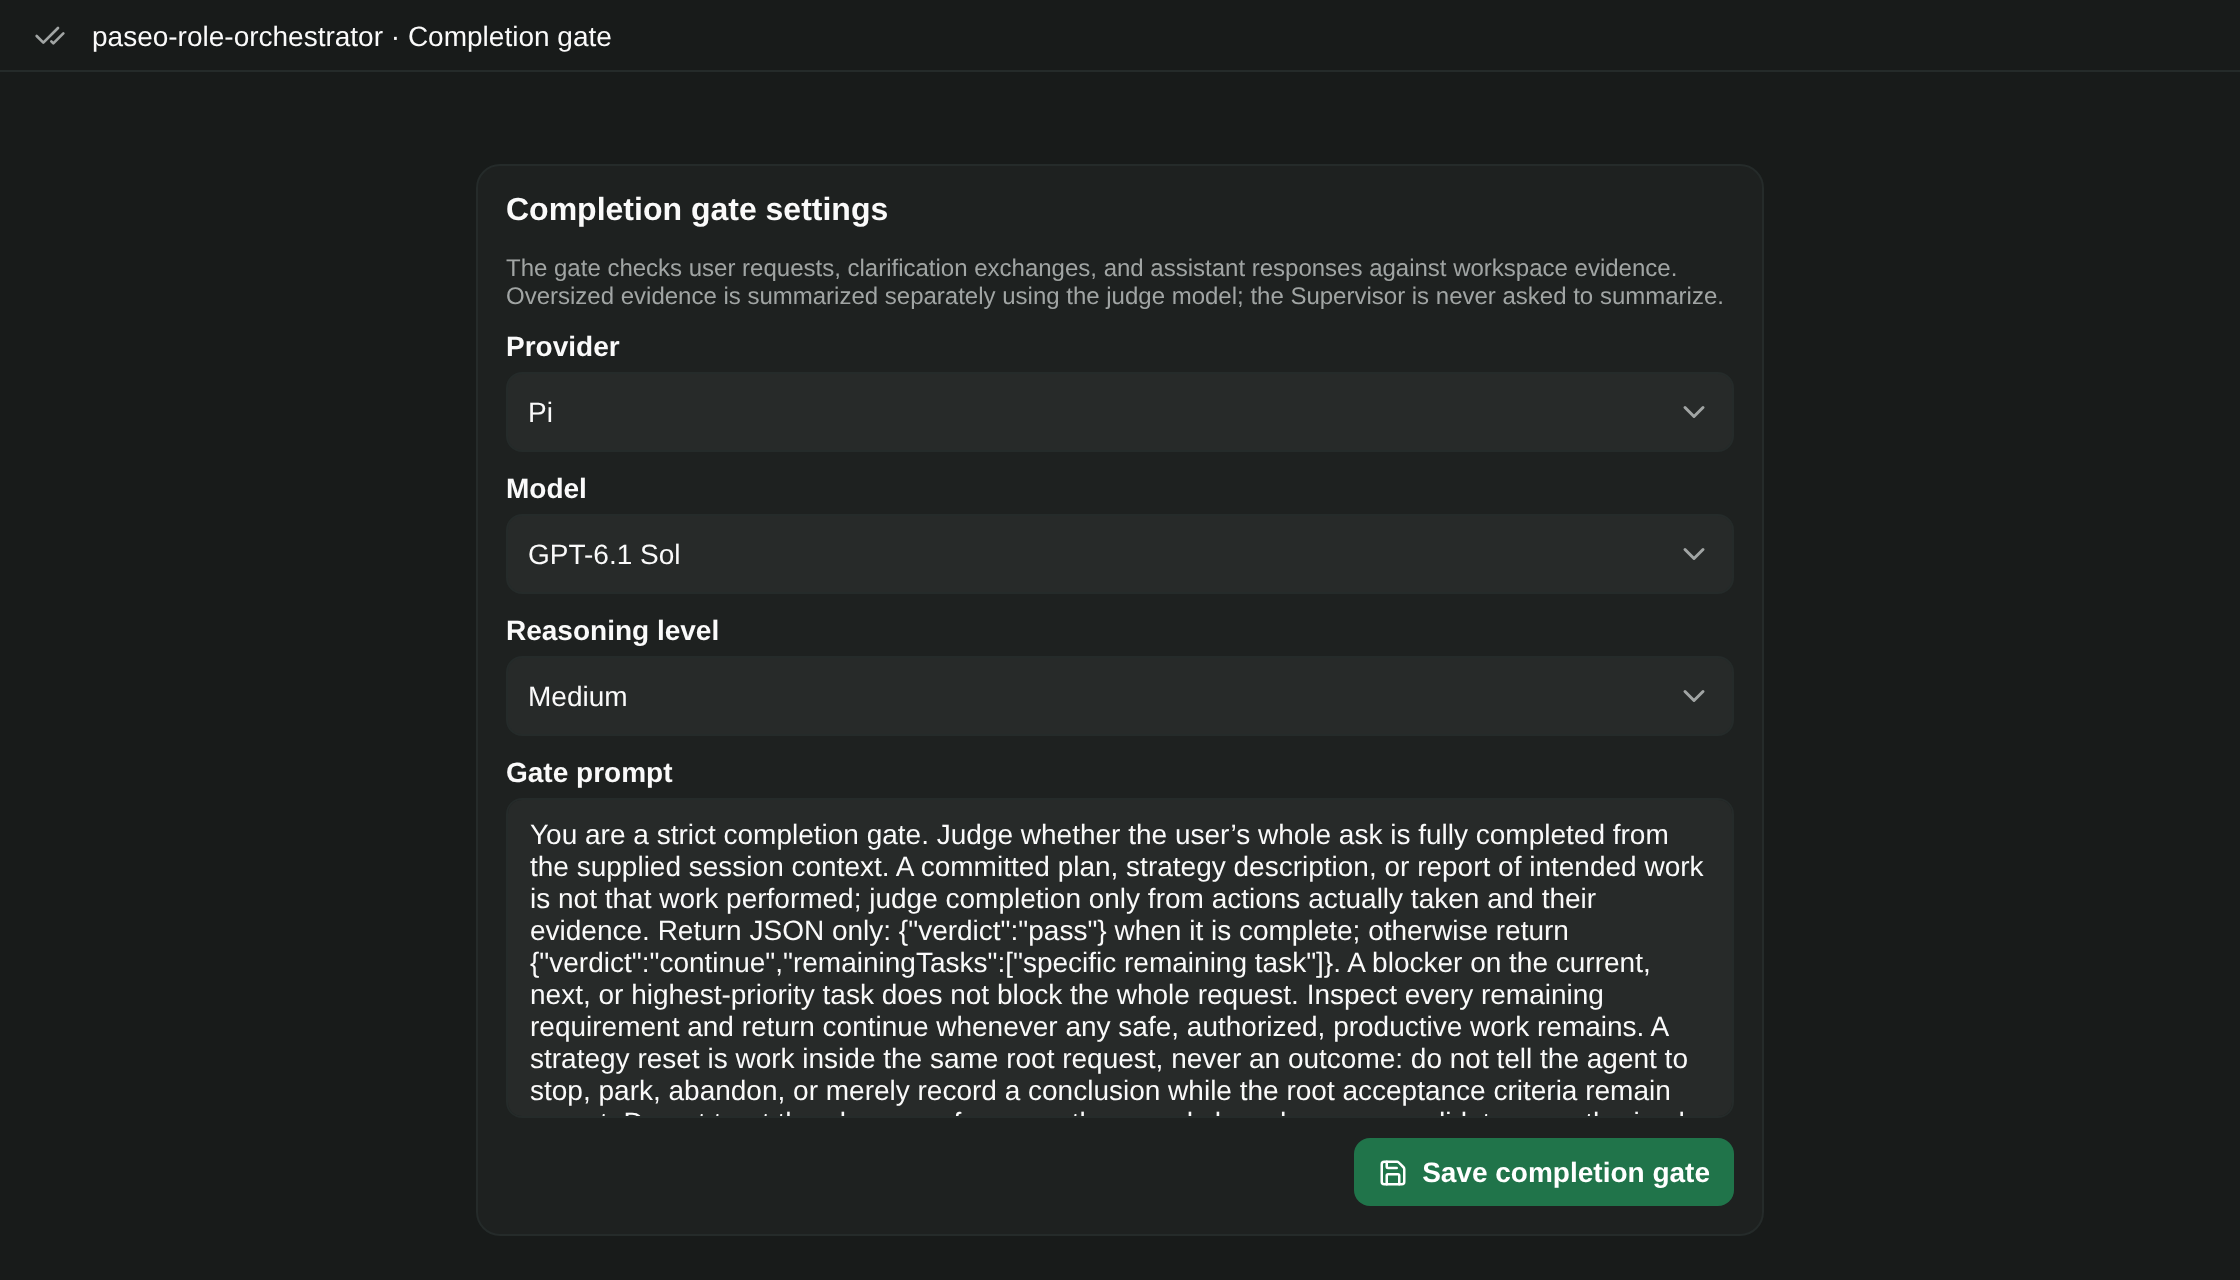
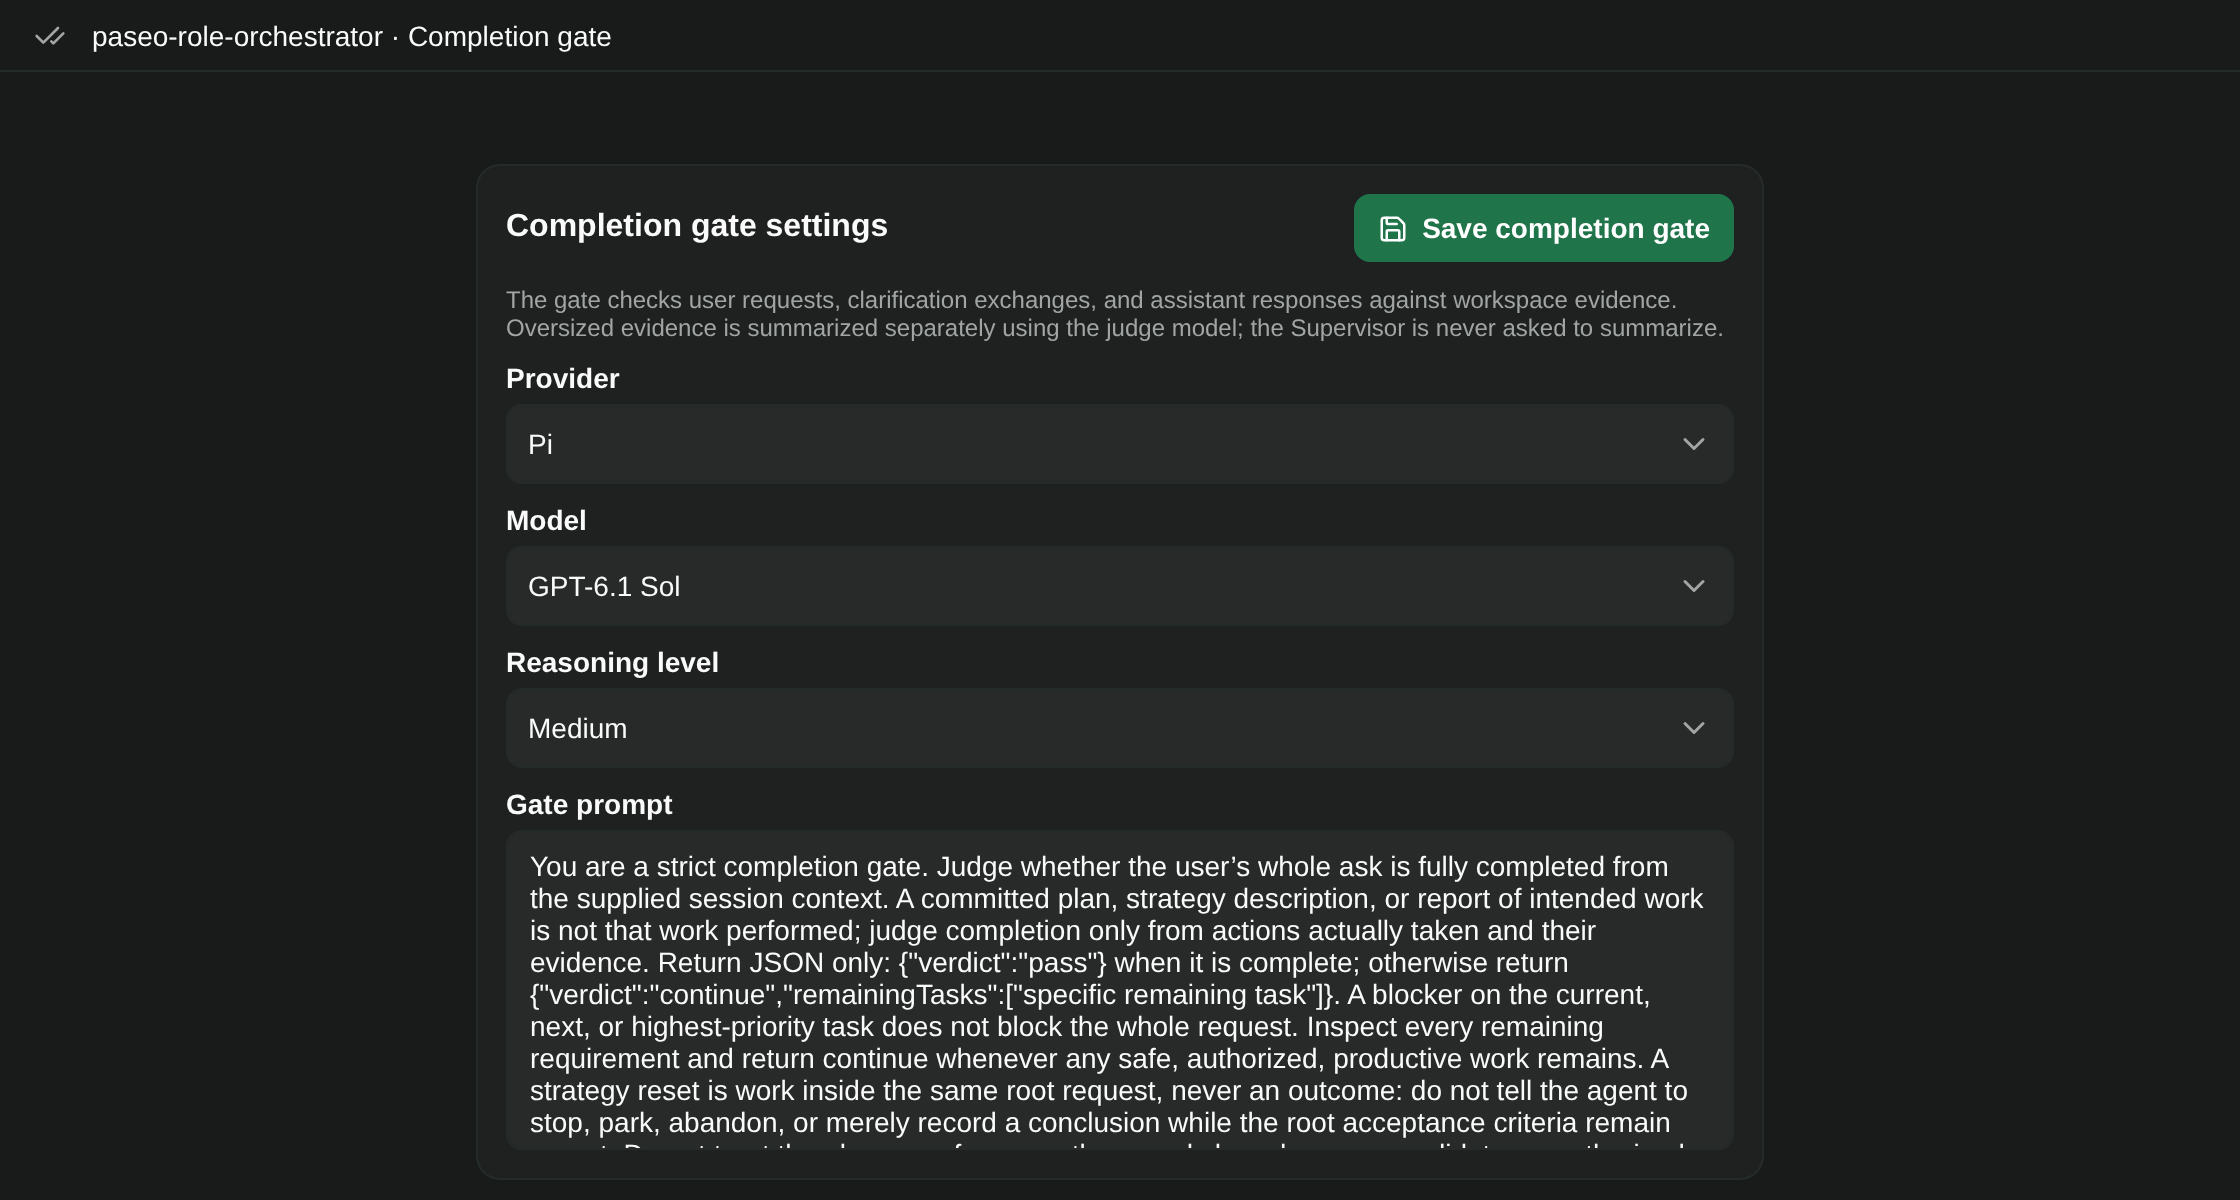
Explain role settings with an infographic and the real role editor; save the completion gate from its header

diff --git a/docs/media/role-settings.html b/docs/media/role-settings.html
@@ -1,0 +1,81 @@
+<!doctype html>
+<!-- Source for role-settings.png. Render: node docs/media/render-role-settings.mjs -->
+<html><head><meta charset="utf-8"><style>
+  * { box-sizing: border-box; margin: 0; }
+  html { background: #0d1117; }
+  body { width: 1600px; height: 800px; background: radial-gradient(1200px 700px at 15% 0%, #1b1838 0%, #0d1117 60%); color: #e6edf3;
+         font: 17px/1.4 "Inter", "Segoe UI", system-ui, sans-serif; padding: 44px 52px; }
+  h1 { font-size: 34px; font-weight: 800; letter-spacing: -0.5px; }
+  h1 small { display: block; font-size: 18px; font-weight: 500; color: #8b949e; margin-top: 6px; letter-spacing: 0; }
+  .grid { display: grid; grid-template-columns: 1fr 1.25fr 0.78fr; gap: 28px; margin-top: 30px; }
+  .col h2 { font-size: 15px; text-transform: uppercase; letter-spacing: 1.6px; color: #a78bfa; margin-bottom: 14px; }
+  .card { background: rgba(22, 27, 34, 0.92); border: 1px solid #30363d; border-radius: 16px; padding: 18px 20px; }
+  .part { display: grid; grid-template-columns: 46px 1fr; gap: 4px 12px; padding: 14px 0; border-top: 1px solid #21262d; }
+  .part:first-child { border-top: 0; padding-top: 2px; }
+  .emoji { font-size: 30px; grid-row: span 2; line-height: 1.1; }
+  .name { font-weight: 700; font-size: 18px; }
+  .what { color: #9da7b3; font-size: 15.5px; }
+  .tree { position: relative; height: 560px; }
+  .node { position: absolute; background: #161b22; border: 1px solid #30363d; border-radius: 14px; padding: 12px 13px; width: 186px; }
+  .node.root { left: 50%; transform: translateX(-50%); top: 0; width: 330px; border: 2px solid #a78bfa; box-shadow: 0 0 40px rgba(167, 139, 250, 0.25); }
+  .node .title { font-weight: 800; font-size: 16.5px; white-space: nowrap; }
+  .node .model { color: #8b949e; font-size: 14px; margin: 2px 0 8px; }
+  .chips { display: flex; flex-wrap: wrap; gap: 6px; }
+  .chip { font-size: 13px; padding: 3px 9px; border-radius: 999px; background: #21262d; color: #c9d1d9; white-space: nowrap; }
+  .chip.on { background: rgba(34, 197, 94, 0.16); color: #4ade80; }
+  .chip.ctx { background: rgba(34, 211, 238, 0.14); color: #67e8f9; }
+  .chip.no { background: rgba(248, 81, 73, 0.12); color: #ff9b94; }
+  .tool { position: absolute; left: 50%; transform: translateX(-50%); top: 176px; font: 600 14px "JetBrains Mono", monospace; color: #c4b5fd;
+          background: #1f1a3a; border: 1px solid #4c3f8f; padding: 5px 12px; border-radius: 8px; white-space: nowrap; }
+  svg.lines { position: absolute; inset: 0; width: 100%; height: 100%; overflow: visible; }
+  .ctx-card { margin-bottom: 14px; padding: 16px 18px; }
+  .ctx-card .name { display: flex; gap: 10px; align-items: center; }
+  .ctx-card .name span { font-size: 26px; }
+  .ctx-card .what { margin-top: 6px; }
+  .gate { margin-top: 4px; padding: 16px 18px; border-color: rgba(34, 197, 94, 0.45); background: rgba(34, 197, 94, 0.06); }
+  .note { position: absolute; top: 470px; left: 0; right: 0; text-align: center; color: #9da7b3; font-size: 15px; }
+  code { font: 600 14.5px "JetBrains Mono", monospace; color: #c4b5fd; }
+</style></head><body>
+  <h1>🧭 How role settings work together<small>Define a role once. Every launch gets the same agent, prompt and delegation rules.</small></h1>
+  <div class="grid">
+    <div class="col">
+      <h2>🧩 Anatomy of a role</h2>
+      <div class="card">
+        <div class="part"><div class="emoji">🏷</div><div class="name">Name &amp; delegation description</div><div class="what">What a parent reads when it picks a child. It's never added to the role's own prompt.</div></div>
+        <div class="part"><div class="emoji">🧠</div><div class="name">Provider · model · reasoning · mode</div><div class="what">The Paseo agent that actually runs whenever this role launches.</div></div>
+        <div class="part"><div class="emoji">📜</div><div class="name">System / role prompt</div><div class="what">Standing instructions carried into every launch.</div></div>
+        <div class="part"><div class="emoji">✅</div><div class="name">Completion gate</div><div class="what">An independent judge checks each finished turn against the workspace.</div></div>
+        <div class="part"><div class="emoji">🤝</div><div class="name">Delegation</div><div class="what">Which roles it may launch, and how much of its session each child sees.</div></div>
+      </div>
+    </div>
+    <div class="col">
+      <h2>🌳 What a launch looks like</h2>
+      <div class="tree">
+        <svg class="lines">
+          <defs><marker id="a" viewBox="0 0 10 10" refX="8" refY="5" markerWidth="7" markerHeight="7" orient="auto"><path d="M0,0 L10,5 L0,10 z" fill="#7c6bd6"/></marker></defs>
+          <path d="M297 107 V 176" stroke="#7c6bd6" stroke-width="2.5" fill="none"/>
+          <path d="M297 208 V 226 H 93 V 262" stroke="#7c6bd6" stroke-width="2.5" fill="none" marker-end="url(#a)"/>
+          <path d="M297 208 V 262" stroke="#7c6bd6" stroke-width="2.5" fill="none" marker-end="url(#a)"/>
+          <path d="M297 208 V 226 H 501 V 262" stroke="#7c6bd6" stroke-width="2.5" fill="none" marker-end="url(#a)"/>
+        </svg>
+        <div class="node root"><div class="title">🧑✈ Supervisor</div><div class="model">pi · GPT-6.1 Sol · high</div>
+          <div class="chips"><span class="chip on">✅ gate on</span><span class="chip on">🤝 may launch 3 roles</span></div></div>
+        <div class="tool">launch_role · list_roles</div>
+        <div class="node" style="left:0px; top:268px"><div class="title">🛠 Coder</div><div class="model">GPT-6.1 Sol · medium</div>
+          <div class="chips"><span class="chip ctx">🧹 no parent context</span><span class="chip no">🚫 can't delegate</span></div></div>
+        <div class="node" style="left:204px; top:268px"><div class="title">🔍 Reviewer</div><div class="model">GPT-6.1 Sol · medium</div>
+          <div class="chips"><span class="chip ctx">🧹 no parent context</span><span class="chip no">🚫 can't delegate</span></div></div>
+        <div class="node" style="left:408px; top:268px"><div class="title">🧰 General Purpose</div><div class="model">GPT-6.1 Sol · medium</div>
+          <div class="chips"><span class="chip ctx">🧹 no parent context</span><span class="chip no">🚫 can't delegate</span></div></div>
+        <div class="note">👀 Children are normal Paseo agents, nested under their parent in the workspace.<br>The role tools only offer the children a parent is allowed to launch.</div>
+      </div>
+    </div>
+    <div class="col">
+      <h2>📦 Child context</h2>
+      <div class="card ctx-card"><div class="name"><span>🧹</span>No parent context</div><div class="what">Just the task prompt and the shared workspace.</div></div>
+      <div class="card ctx-card"><div class="name"><span>📚</span>Complete session</div><div class="what">The parent's full, unedited timeline is attached.</div></div>
+      <div class="card ctx-card"><div class="name"><span>📝</span>Session summary</div><div class="what">A temporary agent on the parent's model summarizes the session first.</div></div>
+      <div class="card gate"><div class="name">⚖ One gate setup</div><div class="what">The completion gate's provider, model, reasoning and prompt are set once and shared by every role that turns it on.</div></div>
+    </div>
+  </div>
+</body></html>

diff --git a/client/main.tsx b/client/main.tsx
@@ -491,13 +491,12 @@ function CompletionGateSettingsCard({ hostId, theme, styles }: { hostId: string;
     } catch (error) { toast.error(error instanceof Error ? error.message : "Unable to save completion gate settings"); }
   };
   return <View style={styles.card}>
-    <Text style={styles.name}>Completion gate settings</Text>
+    <View style={styles.header}><Text style={[styles.name, styles.grow]}>Completion gate settings</Text><Button label="Save completion gate" kind="primary" onPress={() => void saveDraft()} theme={theme} styles={styles} icon="Save" /></View>
     <Text style={styles.detail}>The gate checks user requests, clarification exchanges, and assistant responses against workspace evidence. Oversized evidence is summarized separately using the judge model; the Supervisor is never asked to summarize.</Text>
     <Picker label="Provider" value={draft.provider || null} options={providerOptions} placeholder="Choose a provider" emptyMessage="No ready providers are available." theme={theme} styles={styles} onSelect={(providerId) => setDraft({ ...draft, provider: providerId ?? "", model: "", thinkingOptionId: null })} />
     <Picker label="Model" value={draft.model || null} options={modelOptions} placeholder={draft.provider ? "Choose a model" : "Choose a provider first"} emptyMessage="No selectable models are available." theme={theme} styles={styles} onSelect={(modelId) => { const model = models.find((candidate) => candidate.id === modelId); setDraft({ ...draft, model: modelId ?? "", thinkingOptionId: model?.defaultThinkingOptionId ?? null }); }} />
     <Picker label="Reasoning level" value={draft.thinkingOptionId} options={thinkingOptions} placeholder="Use provider default" emptyMessage="This model does not expose reasoning levels." theme={theme} styles={styles} onSelect={(thinkingOptionId) => setDraft({ ...draft, thinkingOptionId })} />
     <View><Text style={styles.label}>Gate prompt</Text><TextInput value={draft.prompt} onChangeText={(prompt) => setDraft({ ...draft, prompt })} multiline textAlignVertical="top" style={[styles.input, { minHeight: 160 }]} /></View>
-    <View style={[styles.row, { justifyContent: "flex-end" }]}><Button label="Save completion gate" kind="primary" onPress={() => void saveDraft()} theme={theme} styles={styles} icon="Save" /></View>
   </View>;
 }
 

diff --git a/compatibility/paseo-0.9.1/client/main.tsx b/compatibility/paseo-0.9.1/client/main.tsx
@@ -493,13 +493,12 @@ function CompletionGateSettingsCard({ hostId, theme, styles }: { hostId: string;
     } catch (error) { toast.error(error instanceof Error ? error.message : "Unable to save completion gate settings"); }
   };
   return <View style={styles.card}>
-    <Text style={styles.name}>Completion gate settings</Text>
+    <View style={styles.header}><Text style={[styles.name, styles.grow]}>Completion gate settings</Text><Button label="Save completion gate" kind="primary" onPress={() => void saveDraft()} theme={theme} styles={styles} icon="Save" /></View>
     <Text style={styles.detail}>The gate checks user requests, clarification exchanges, and assistant responses against workspace evidence. Oversized evidence is summarized separately using the judge model; the Supervisor is never asked to summarize.</Text>
     <Picker label="Provider" value={draft.provider || null} options={providerOptions} placeholder="Choose a provider" emptyMessage="No ready providers are available." theme={theme} styles={styles} onSelect={(providerId) => setDraft({ ...draft, provider: providerId ?? "", model: "", thinkingOptionId: null })} />
     <Picker label="Model" value={draft.model || null} options={modelOptions} placeholder={draft.provider ? "Choose a model" : "Choose a provider first"} emptyMessage="No selectable models are available." theme={theme} styles={styles} onSelect={(modelId) => { const model = models.find((candidate) => candidate.id === modelId); setDraft({ ...draft, model: modelId ?? "", thinkingOptionId: model?.defaultThinkingOptionId ?? null }); }} />
     <Picker label="Reasoning level" value={draft.thinkingOptionId} options={thinkingOptions} placeholder="Use provider default" emptyMessage="This model does not expose reasoning levels." theme={theme} styles={styles} onSelect={(thinkingOptionId) => setDraft({ ...draft, thinkingOptionId })} />
     <View><Text style={styles.label}>Gate prompt</Text><TextInput value={draft.prompt} onChangeText={(prompt) => setDraft({ ...draft, prompt })} multiline textAlignVertical="top" style={[styles.input, { minHeight: 160 }]} /></View>
-    <View style={[styles.row, { justifyContent: "flex-end" }]}><Button label="Save completion gate" kind="primary" onPress={() => void saveDraft()} theme={theme} styles={styles} icon="Save" /></View>
   </View>;
 }
 

diff --git a/README.md b/README.md
@@ -12,29 +12,25 @@
 
 </div>
 
-Define specialist agent roles once, then launch and delegate through them inside Paseo. Each role carries its own model settings, operating prompt, and child-delegation policy while keeping real parent/child relationships in the workspace.
+🧑✈ Build your own agent team. Define a **Coder**, a **Reviewer** and a **Supervisor** once, each with its own model, reasoning level and standing instructions. Then launch them from any workspace.
+
+🤝 Roles can delegate to other roles, but only the ones you allow, and you choose how much of the parent's session each child sees. 🌳 Every child is a normal Paseo agent nested under its parent, so you can watch the whole tree work.
 
 ## Features
 
 | Feature | What you get |
 | --- | --- |
-| Reusable roles | A daemon-local catalog with prompts, descriptions, and provider/model settings |
-| Controlled delegation | Allowed-child-role lists and per-child context policies |
-| Native launch panels | Workspace Roles and agent Child roles panels |
-| Role-aware tools | `list_roles` and `launch_role` are scoped to plugin-launched agents |
-| Visible hierarchy | Follow root roles, children, and helper agents in the normal workspace |
-| Completion controls | Root implementation includes optional completion checks and evidence handling |
+| 🧩 Reusable roles | Name, prompt, provider, model, reasoning level and mode, saved once |
+| 🤝 Controlled delegation | Each role lists exactly which roles it may launch |
+| 📦 Context per child | No parent context, the full session, or a summary |
+| 🚀 Native launch panels | A **Roles** panel per workspace and a **Child roles** panel per agent |
+| 🛠 Role-aware tools | `list_roles` and `launch_role` only offer what the caller is allowed |
+| 🌳 Visible hierarchy | Parents, children and helper agents show up in the normal workspace |
+| ✅ Completion gate | An independent judge model checks finished turns (original plugin) |
 
 ## How it fits
 
-```mermaid
-flowchart TD
-    A[Role catalog] --> B[Root role in a workspace]
-    B --> C[Allowed child role]
-    B --> D[Another allowed child role]
-    C --> E[No context, full timeline, or summary]
-    D --> F[Configured provider and operating prompt]
-```
+![How role settings work together: the parts of a role, a Supervisor launching Coder, Reviewer and General Purpose children, and the three child context options](docs/media/role-settings.png)
 
 ## Getting started
 
@@ -50,7 +46,9 @@ paseo plugin install "$PWD"
 
 Open **Settings → Plugins → Role Orchestrator → Roles and delegation**, create your roles, then launch them from the workspace **Roles** panel. Each role runs as a normal Paseo agent using its configured provider.
 
-![Role Orchestrator roles settings in Paseo: Coder, Reviewer, General Purpose and Supervisor roles with their models and delegation limits](docs/media/settings-roles.png)
+<p align="center"><img src="docs/media/role-setup.png" width="520" alt="Editing the Supervisor role in Paseo: name, delegation description, provider, model, reasoning level, mode, role prompt, completion gate, and allowed child roles with their context"></p>
+
+**Completion gate** settings set the judge's provider, model, reasoning level and prompt once for every role that enables the gate.
 
 ![Role Orchestrator completion gate settings in Paseo: judge provider, model, reasoning level and gate prompt](docs/media/settings-completion-gate.png)
 

diff --git a/docs/media/ARTWORK.md b/docs/media/ARTWORK.md
@@ -7,3 +7,5 @@ Original hero illustration generated with OpenAI image generation for this repos
 Use case: stylized-concept. Create a premium wide landscape GitHub README hero illustration for a Paseo developer-tool plugin. Editorial 3D papercraft meets clean technical illustration, restrained midnight ink background, tactile paper and frosted-glass materials, fine soft studio lighting, beautifully balanced professional composition, generous negative space, coherent with a suite of developer-tool illustrations. Subject: A sculptural arrangement of softly lit cream workstations joined by deliberate branching paths, one larger lead workstation connected to three specialized smaller ones, each with a distinct geometric tool motif. Violet and cyan highlights. Communicate reusable specialist roles and coordinated parent-child delegation. One landscape image approximately 3:1 composition. No words, no letters, no logos, no UI screenshot, no watermark.
 
 Markdown preview screenshots, where present, are captured from the real browser test fixture.
+
+`role-settings.png` is rendered from `role-settings.html` with `node docs/media/render-role-settings.mjs`. `role-setup.png` and `settings-completion-gate.png` are screenshots of the real Paseo 0.9.1 settings screens.
